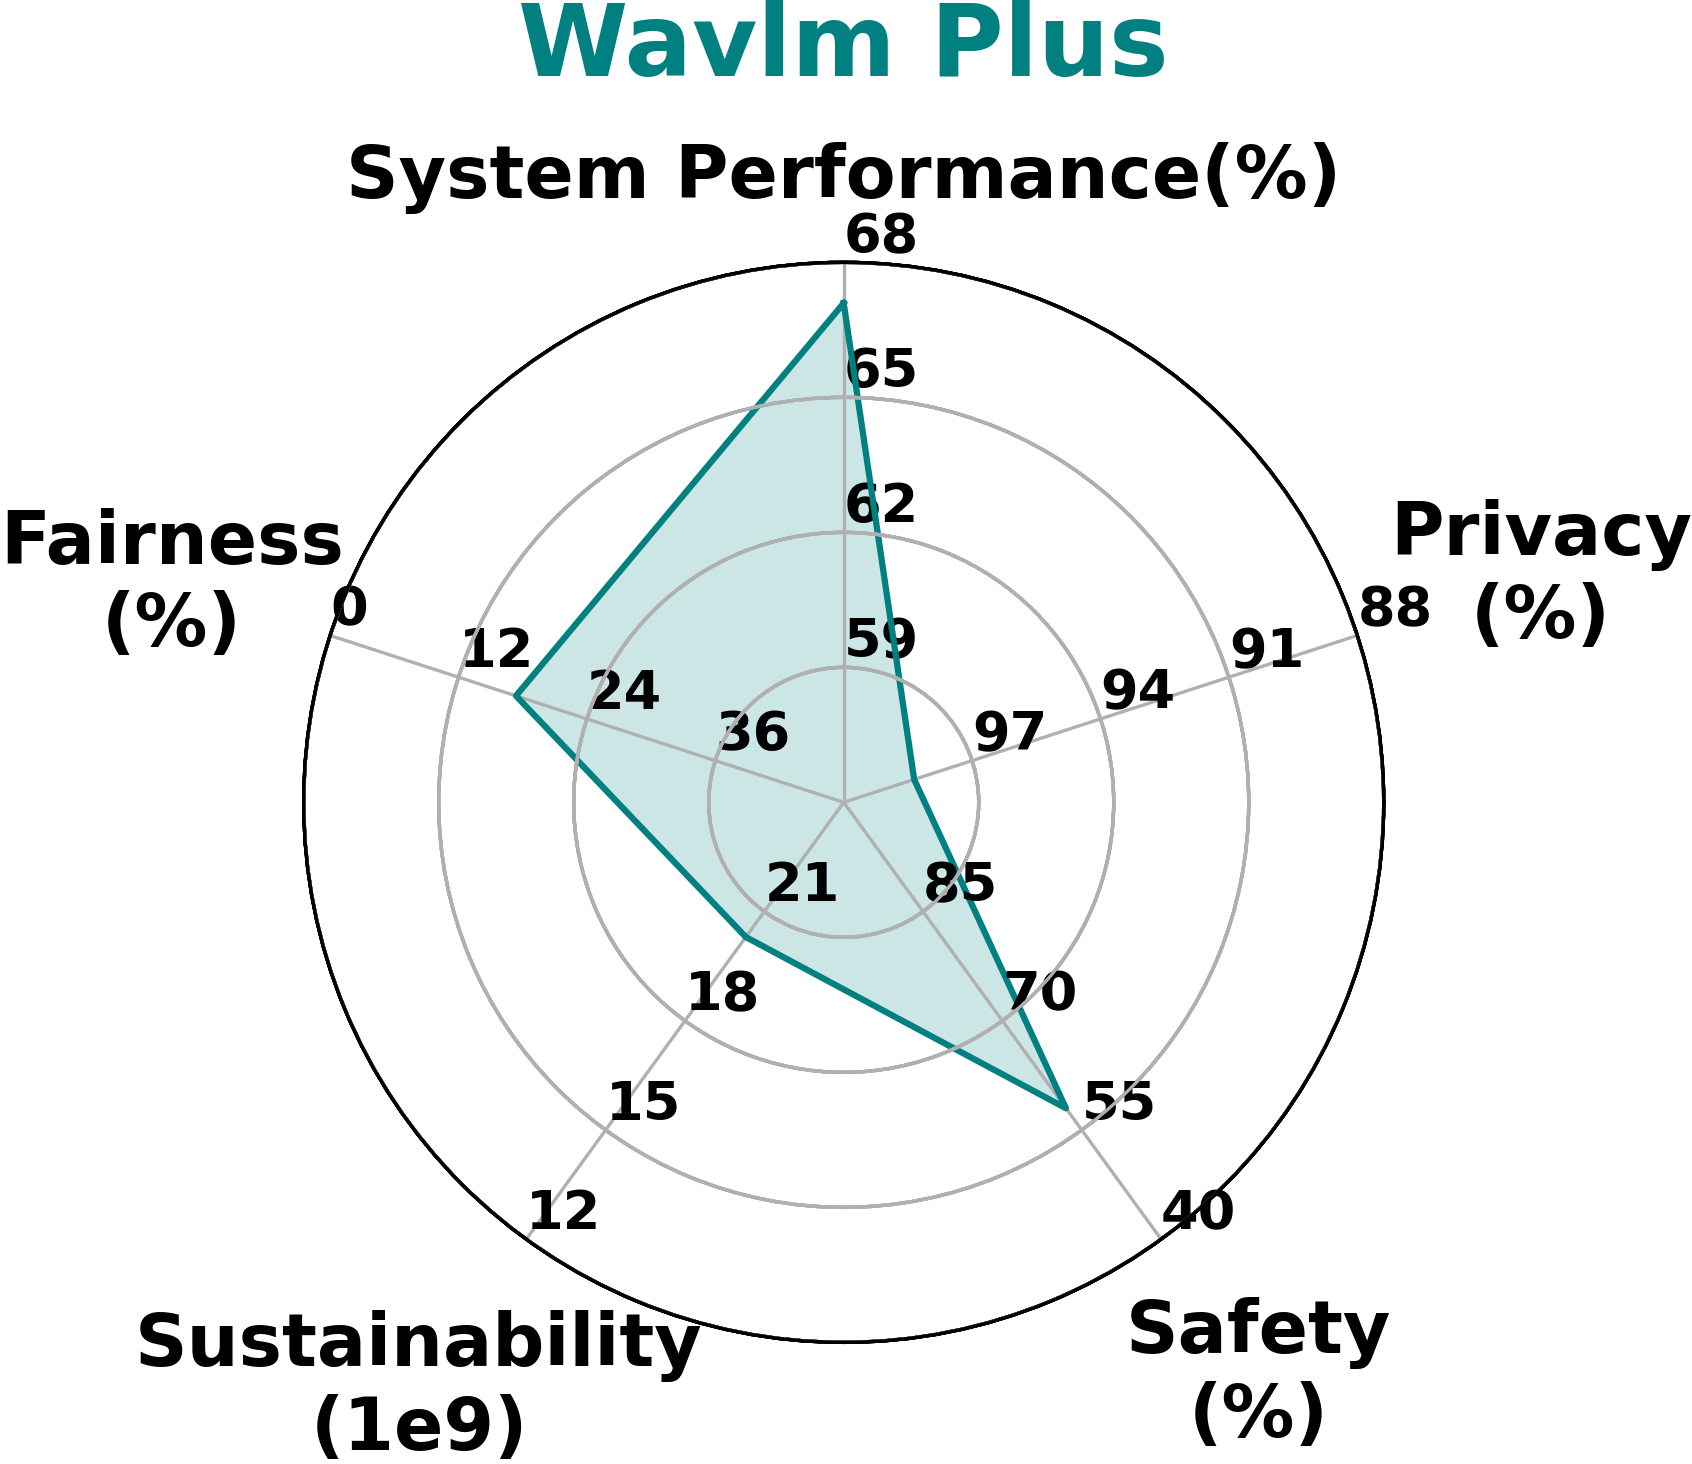
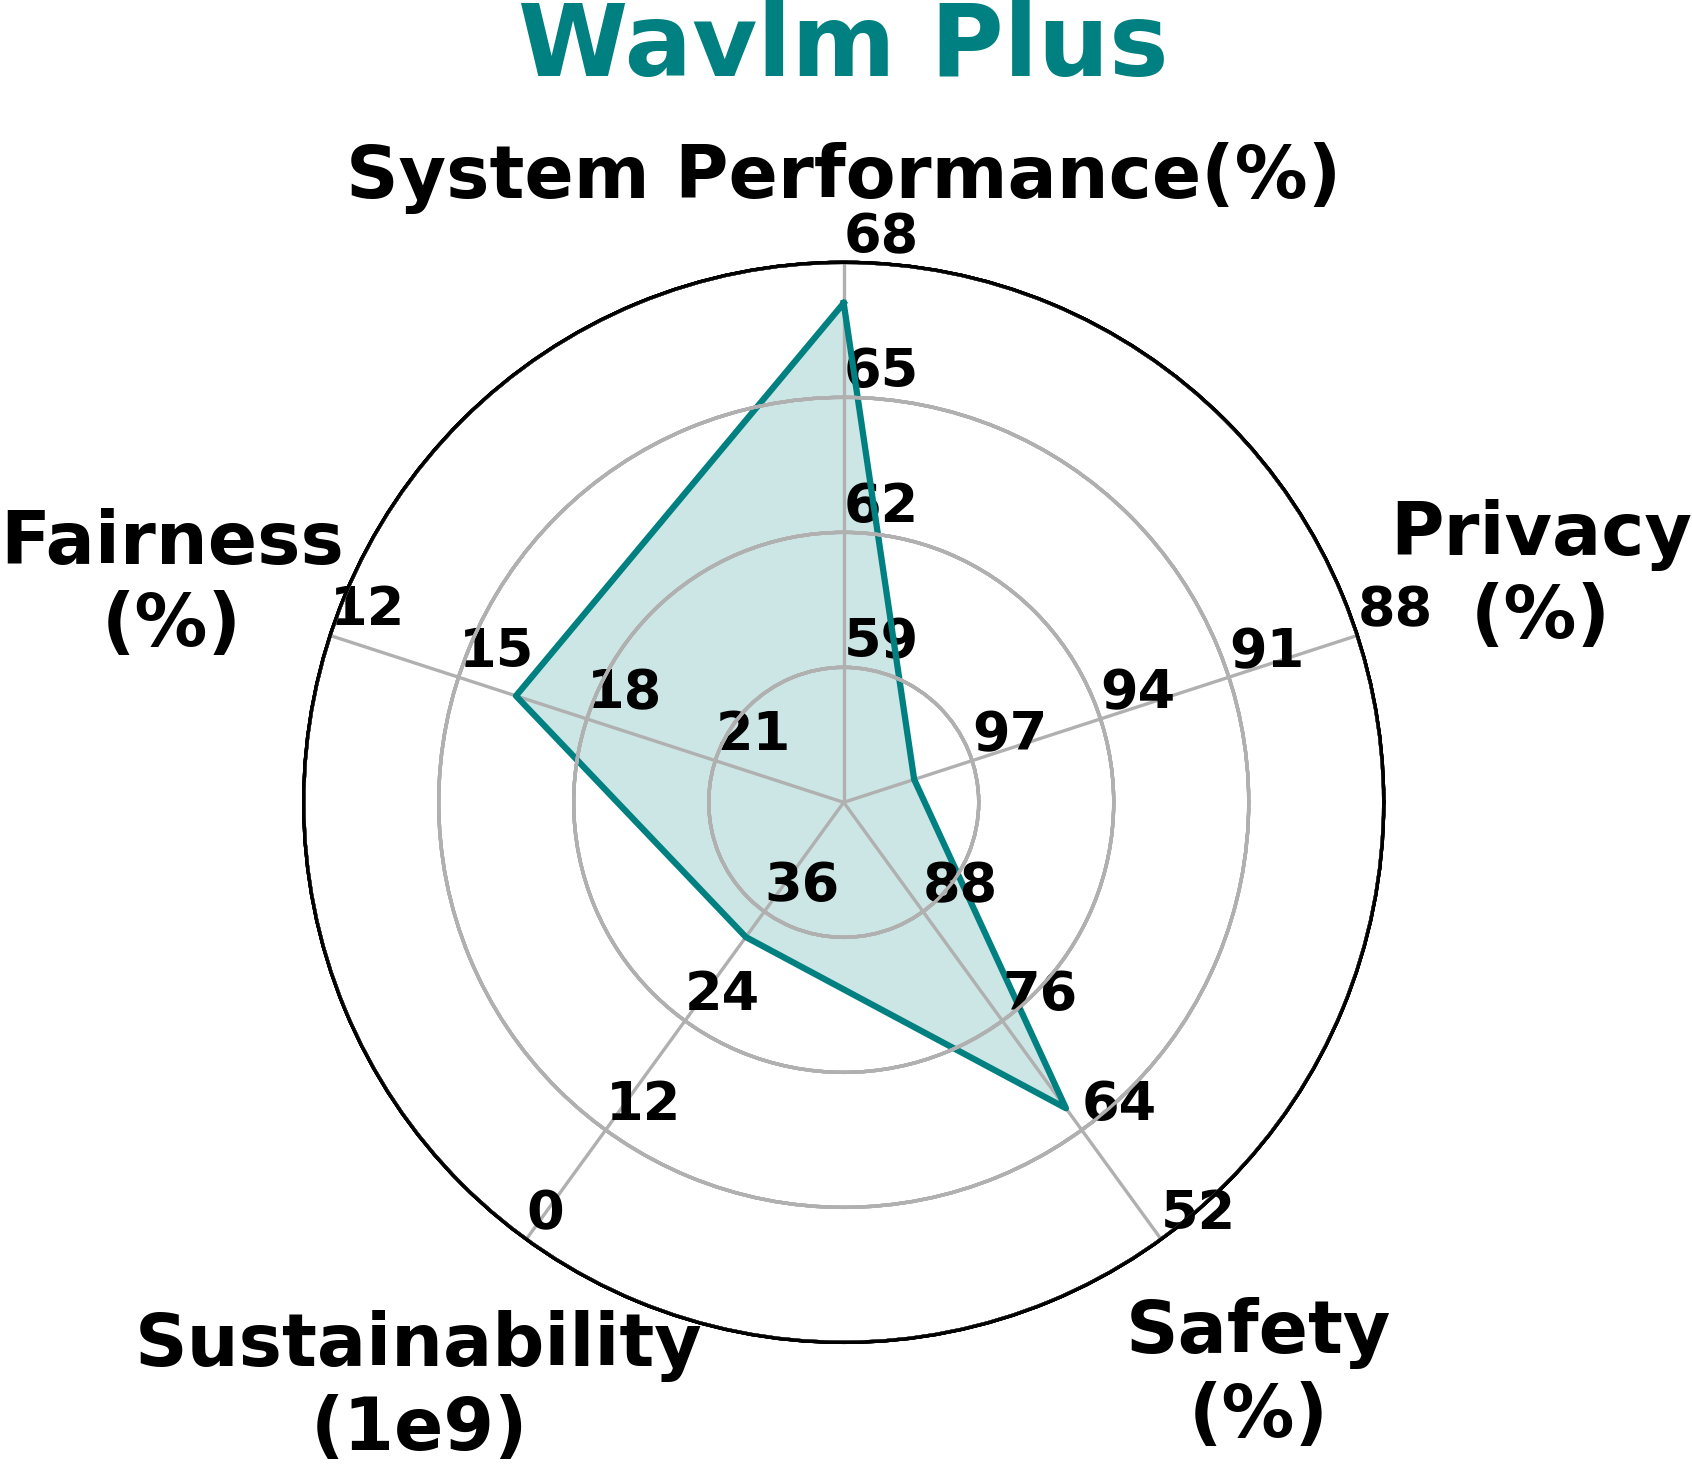
add plot with correct axis

diff --git a/trustworthy/plot_spider.py b/trustworthy/plot_spider.py
@@ -1,9 +1,12 @@
 import pdb
 import numpy as np
 import pandas as pd
+import seaborn as sns
 import matplotlib.pyplot as plt
-import seaborn as sns # improves plot aesthetics
+
+from matplotlib.patches import Patch
 from matplotlib.colors import ListedColormap
+
 
 from math import pi
 
@@ -93,9 +96,9 @@ class ComplexRadar():
             
         labels = [
             ["", "59", "62", "65", "68"],
-            ["", "36", "24", "12", "0"],
             ["", "21", "18", "15", "12"],
-            ["", "85", "70", "55", "40"],
+            ["", "36", "24", "12", "0"],
+            ["", "88", "76", "64", "52"],
             ["", "97", "94", "91", "88",]
         ]
 
@@ -122,12 +125,12 @@ class ComplexRadar():
         self.ax = axes[0]
         self.color = color
         
-    def plot(self, data, *args, **kw):
+    def plot(self, data, color, *args, **kw):
         sdata = _scale_data(data, self.ranges)
-        self.ax.plot(self.angle, np.r_[sdata, sdata[0]], color=self.color, *args, **kw)
-    def fill(self, data, *args, **kw):
+        self.ax.plot(self.angle, np.r_[sdata, sdata[0]], color=color, *args, **kw)
+    def fill(self, data, color, *args, **kw):
         sdata = _scale_data(data, self.ranges)
-        self.ax.fill(self.angle, np.r_[sdata, sdata[0]], color=self.color, *args, **kw)
+        self.ax.fill(self.angle, np.r_[sdata, sdata[0]], color=color, *args, **kw)
 
 # Set data
 df = pd.read_csv("summary.csv", index_col=0)
@@ -135,7 +138,7 @@ df = pd.read_csv("summary.csv", index_col=0)
 categories = list(df.columns)
 model_names = list(df.index)
 
-for row in range(len(model_names)):
+for row in range(len(model_names[:-1])):
     values = df.loc[df.index[row]].values.flatten().tolist()
     ranges = [(0, 100), (0, 100), (0, 100), (0, 100), (0, 100), (0, 100)]
 
@@ -154,9 +157,48 @@ for row in range(len(model_names)):
     fig1 = plt.figure(figsize=(6, 5.25))
     # fig.subplots_adjust(wspace=-0.5, hspace=-0.5)
     radar = ComplexRadar(fig1, categories, ranges, color=colors[row])
-    radar.plot(values)
-    radar.fill(values, alpha=0.2)
-
+    radar.plot(values, color=colors[row])
+    radar.fill(values, color=colors[row], alpha=0.2)
+    
     plt.title(df.index[row], size=24, color=colors[row], y=1.15, weight="bold")
     plt.savefig(f'trust_profile/{model_names[row].replace(" ", "_")}.png', dpi=300, bbox_inches='tight', pad_inches=0)
     plt.close()
+
+
+df = pd.read_csv("summary.csv", index_col=0)
+df = df.loc[["Whisper Tiny", "Whisper Tiny-FT"], :]
+
+categories = list(df.columns)
+model_names = list(df.index)
+ranges = [(0, 100), (0, 100), (0, 100), (0, 100), (0, 100), (0, 100)]
+
+fig1 = plt.figure(figsize=(6, 5.25), linewidth=8, edgecolor='black')
+radar = ComplexRadar(fig1, categories, ranges, color=colors[row])
+    
+for row in range(len(model_names)):
+    values = df.loc[df.index[row]].values.flatten().tolist()
+    ranges = [(0, 100), (0, 100), (0, 100), (0, 100), (0, 100), (0, 100)]
+
+    max_list = [68, 24, 48, 100, 100]
+    min_list = [56, 12, 0, 40, 88]
+
+    for cat_idx in range(len(categories)):
+        max_num, min_num = max_list[cat_idx], min_list[cat_idx]
+        if cat_idx == 0: values[cat_idx] = 100*(values[cat_idx] - min_num) / (max_num - min_num)
+        else: values[cat_idx] = 100-100*(values[cat_idx] - min_num) / (max_num - min_num)
+
+    # Plotting
+    colors = ['#2ca02c', '#e74c3c']
+    my_palette = ListedColormap(colors)
+
+    # fig.subplots_adjust(wspace=-0.5, hspace=-0.5)
+    radar.plot(values, color=colors[row])
+    radar.fill(values, color=colors[row], alpha=0.2)
+
+plt.title("Whisper Tiny\nFrozen vs. FT Last Layer", size=20, color='black', y=1.15, weight="bold")
+legend_elements = [Patch(facecolor=colors[0], edgecolor=colors[0], label='Frozen', alpha=0.4),
+                   Patch(facecolor=colors[1], edgecolor=colors[1], label='FT Last Layer', alpha=0.4)]
+
+plt.legend(handles=legend_elements, prop={'weight':'bold', 'size': 10.75}, bbox_to_anchor=(1.3, 1.05))
+plt.savefig(f'trust_profile/Compare.png', dpi=300, bbox_inches='tight', pad_inches=0.075)
+plt.close()

diff --git a/experiment/finetune_single_thread.py b/experiment/finetune_single_thread.py
@@ -284,7 +284,7 @@ if __name__ == '__main__':
                 if "whisper" in args.pretrain_model:
                     # Copy back the positional embedding
                     backbone_model.backbone_model.encoder.embed_positions = backbone_model.backbone_model.encoder.embed_positions.from_pretrained(backbone_model.embed_positions)
-                    torch.save(backbone_model.state_dict(), str(log_dir.joinpath(f'fold_{fold_idx}_backbone.pt')))
+                if args.finetune != "frozen": torch.save(backbone_model.state_dict(), str(log_dir.joinpath(f'fold_{fold_idx}_backbone.pt')))
             
             logging.info(f'-------------------------------------------------------------------')
             logging.info(f"Fold {fold_idx} - Best train epoch {best_epoch}, best dev UAR {best_dev_uar:.2f}%, best test UAR {best_test_uar:.2f}%")
